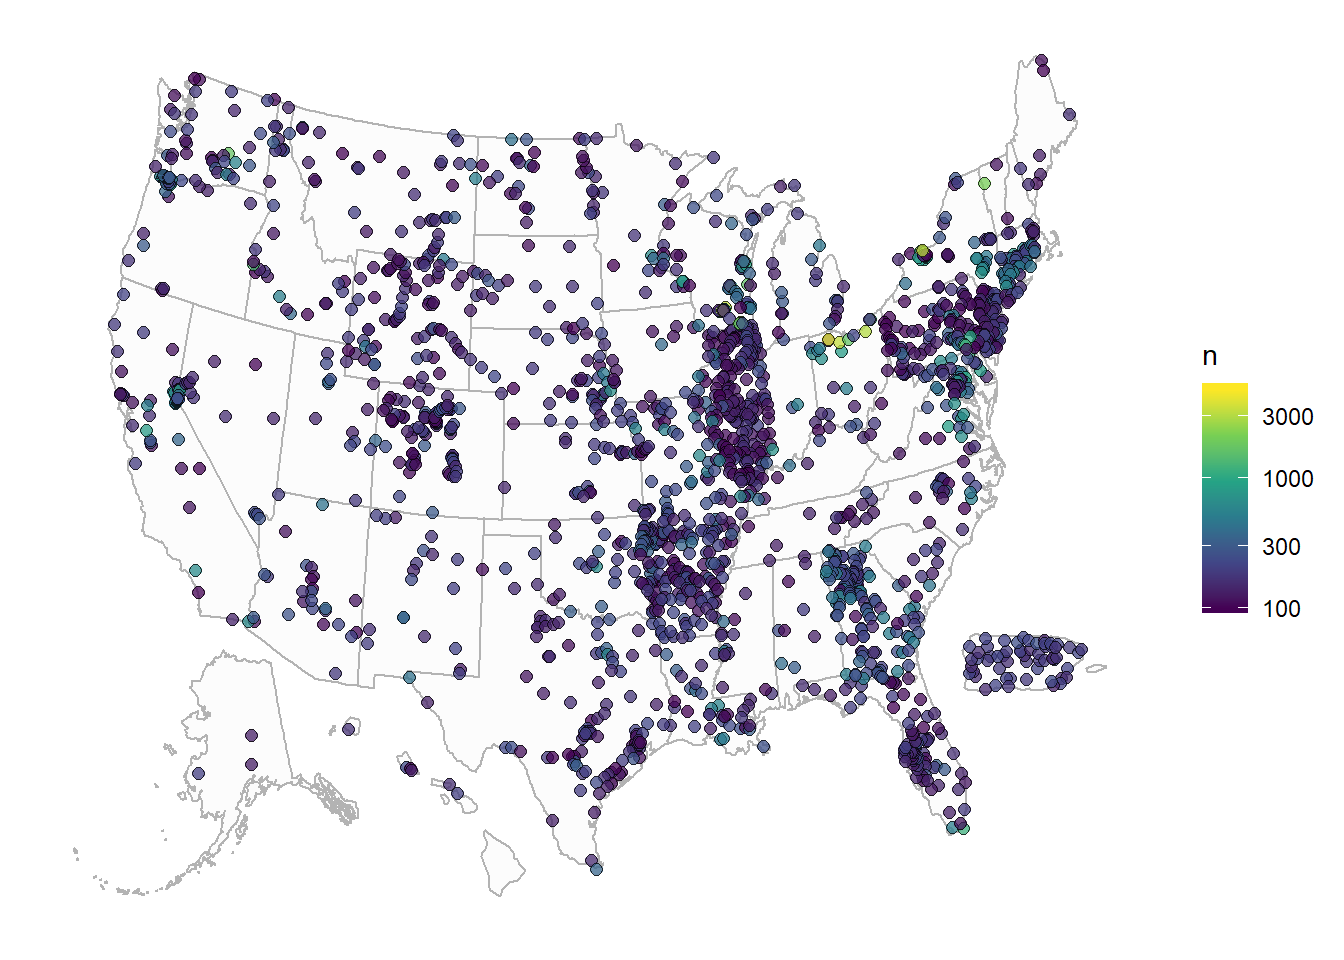
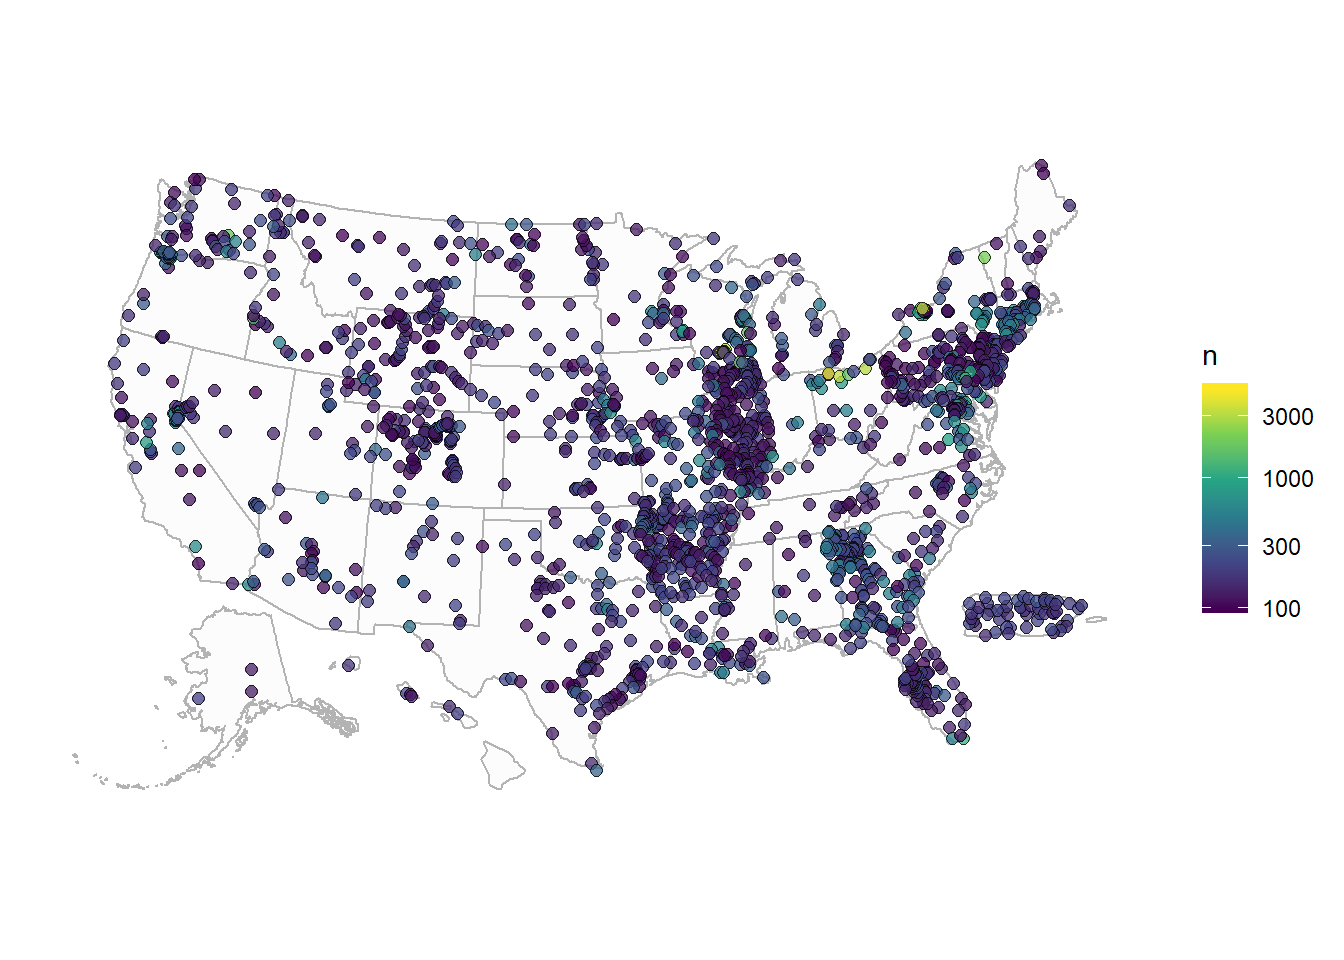
Updates from reviewer

diff --git a/content/usMaps.md b/content/usMaps.md
@@ -18,7 +18,8 @@ tags:
   - R
   - dataRetrieval
  
-description: Adding USGS water sites to a map of US including Alaska, Hawaii, and Puerto Rico.
+description: Adding USGS water sites to a map of US including Alaska, Hawaii, and
+Puerto Rico.
 keywords:
   - R
   - dataRetrieval
@@ -47,6 +48,9 @@ to_sp <- function(...){
   return(map.sp.t)
 }
 ```
+
+Next, we have a function that scales, shifts, and rotates the “sp”
+objects:
 
 ``` r
 shift_sp <- function(sp, scale, shift, 
@@ -78,6 +82,9 @@ shift_sp <- function(sp, scale, shift,
 }
 ```
 
+For the United States, this function will get call the `shift_sp`
+function on the state/territory boundaries.
+
 ``` r
 reset_states <- function(move_variables, stuff_to_move){
   states.out <- to_sp("state")
@@ -93,6 +100,8 @@ reset_states <- function(move_variables, stuff_to_move){
   return(states.out)
 }
 ```
+
+This function will move the points in the states/territories.
 
 ``` r
 reset_points <- function(x, move_variables,stuff_to_move,
@@ -160,7 +169,8 @@ plot_points_on_map <- function(x, move_variables, stuff_to_move,
     theme_minimal() +
     theme(panel.grid = element_blank(),
           axis.text = element_blank(),
-          axis.title = element_blank())
+          axis.title = element_blank()) +
+    coord_fixed()
   
   if(scale_by_color & scale_by_size){
     gsMap <- gsMap +
